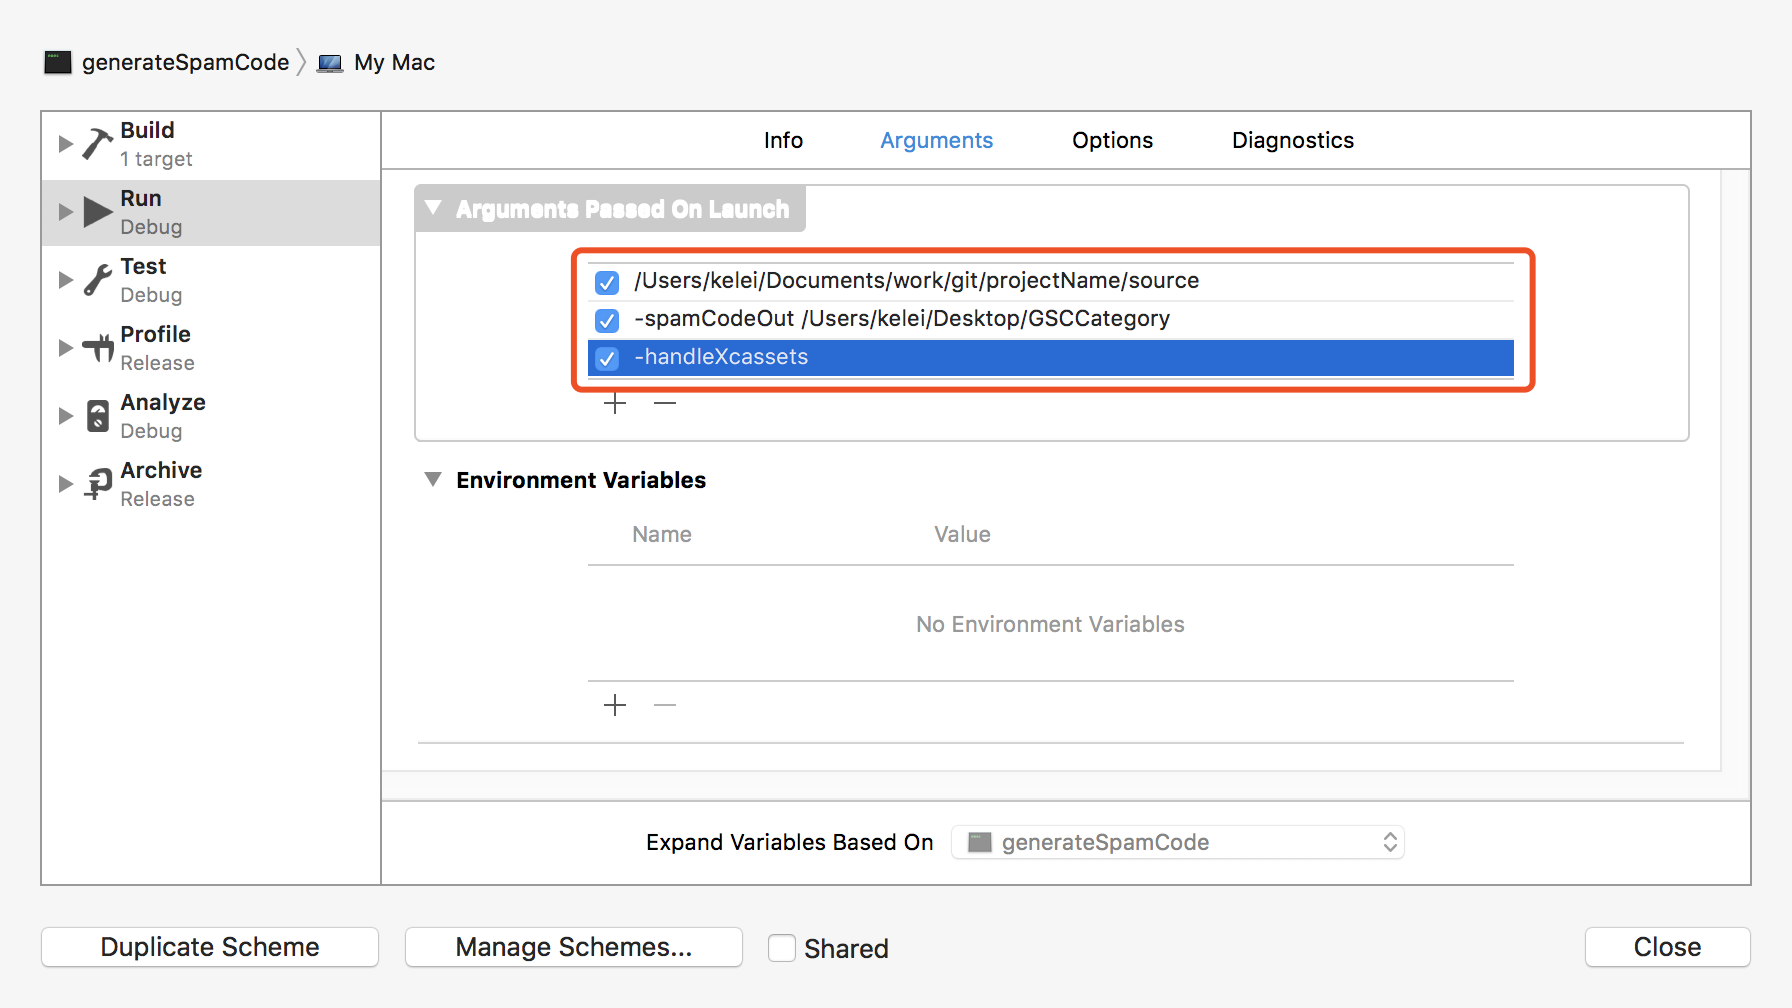
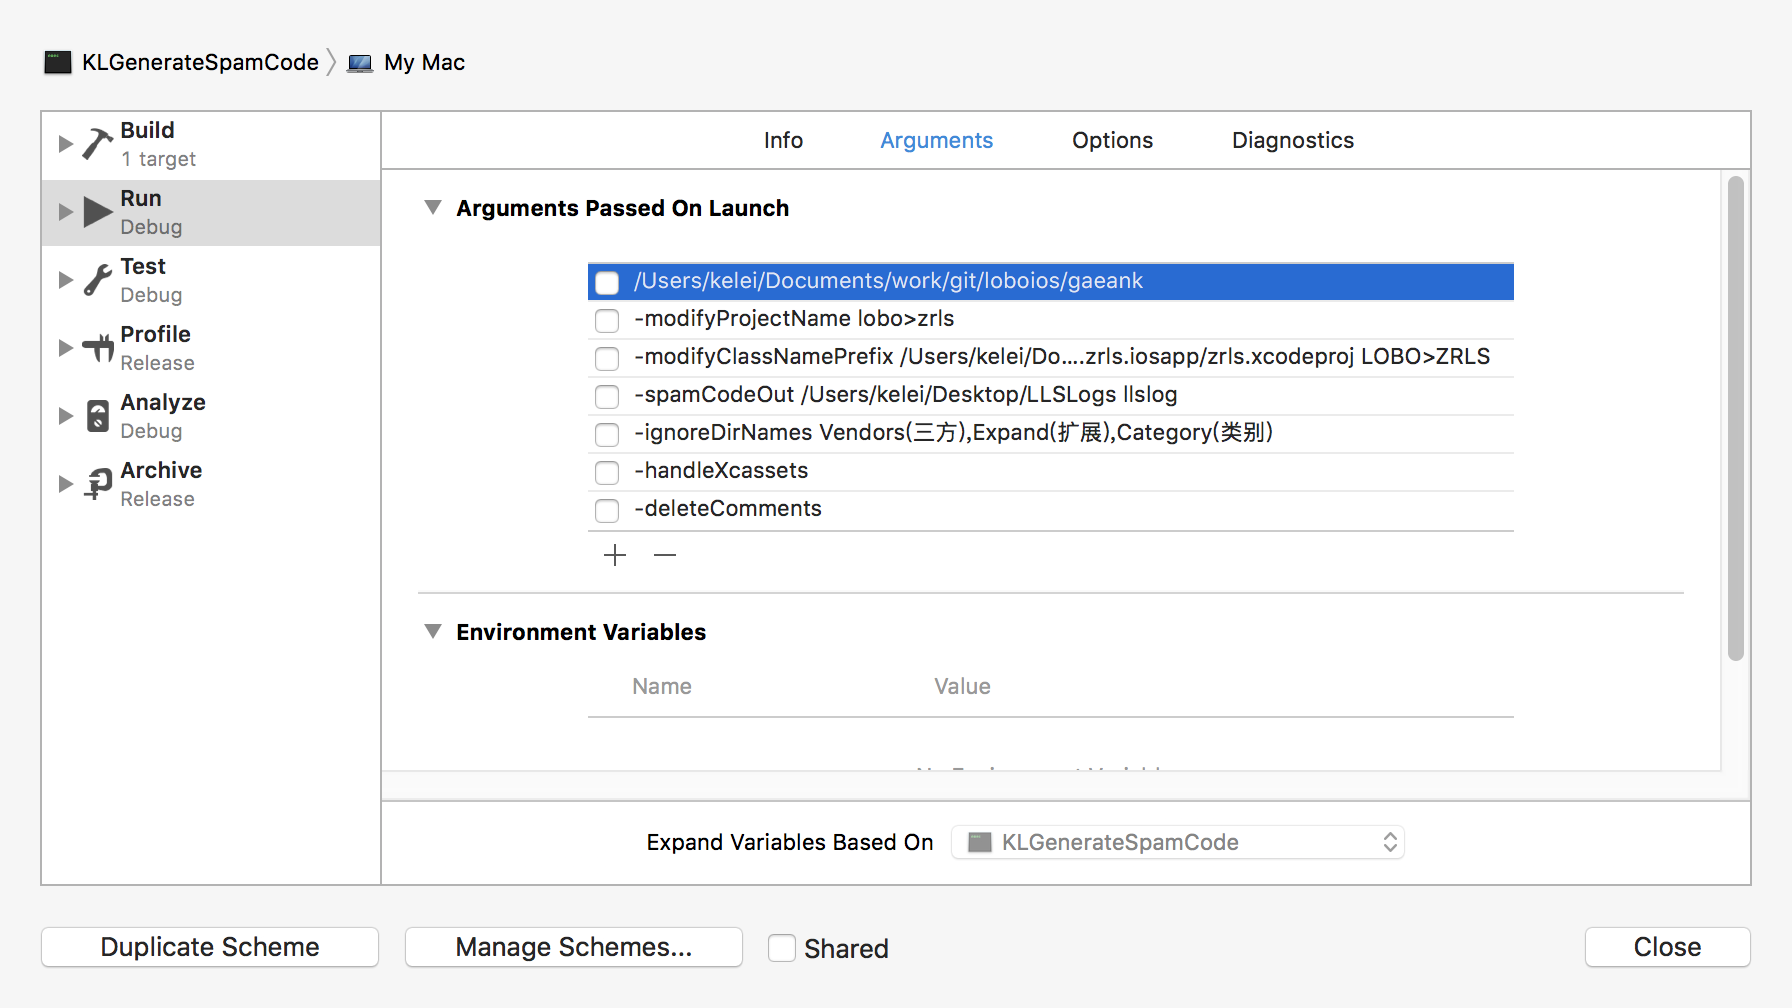
新版本

diff --git a/README.md b/README.md
@@ -2,27 +2,46 @@
 本工具用于应对苹果对重复应用的审核（Guideline 4.3 Design Spam），避免苹果机审检测概率。
 
 ## 主要功能
-1. 扫描工程中的代码，生成同等数量的 Category 文件，文件中及是同等方法数量的垃圾代码，垃圾代码方法名随机。
+1. 修改工程名
+1. 修改类名前缀
+1. 扫描工程中的代码，生成同等数量的 Category 文件，文件中及是同等方法数量的垃圾代码。
 1. 修改 xxx.xcassets 文件夹中的 png 资源文件名。
 1. 删除代码中的所有注释和空行。
 
 ## 使用
+### 使用源码
 1. 下载源码。
-1. 用 Xcode 打开工程并配置参数。如图![配置参数](https://github.com/klaus01/KLGenerateSpamCode/raw/master/images/p1.png)
-1. 运行，生成垃圾代码，处理 png 文件名。
-1. 将生成的垃圾代码拖入工程中。
+1. 用 Xcode 打开工程并配置参数。如图![配置参数](https://github.com/klaus01/KLGenerateSpamCode/raw/master/images/p1.png)
+1. 运行
+
+### 使用二进制文件，在终端中执行 GenerateSpamCode
+`$ ./GenerateSpamCode \
+/Users/kelei/Documents/work/git/projectName/source \
+-deleteComments`
+其它参数等等
 
 ### 参数说明
-- **工程源文件目录**（如：`/Users/kelei/Documents/work/git/projectName/source`）
-- **-spamCodeOut** 后面跟垃圾代码输出目录（如：`-spamCodeOut /Users/kelei/Desktop/GSCCategory`）
+- **工程源代码绝对路径**（如：`/Users/kelei/Documents/work/git/projectName/source`）
+- **-modifyProjectName [原名称]>[新名称]** 修改工程名。程序会修改`工程源代码绝对路径`名称，`原名称.xcodeproj`和`原名称.xcworkspace`的名称和内容。
+- **-modifyClassNamePrefix [工程文件 xcodeproj 绝对路径] [原前缀]>[新前缀]** 修改源代码类名前缀。程序会扫描`工程源代码绝对路径`下的 .h .swift 文件，修改文件名，修改使用该类名的代码，修改`工程文件`中的文件名。文件名有`原前缀`的会修改成`新前缀`，如：`原前缀ViewController`变成`新前缀ViewController`；没有`原前缀`的会增加`新前缀`，如：`ViewController`变成`新前缀ViewController`。
+- **-spamCodeOut [垃圾代码文件输出目录] [垃圾代码方法增加的参数名]** 生成垃圾代码。程序会扫描`工程源代码绝对路径`下的 .m .swift 文件中的类和方法，并生成`category`和`extension`文件，文件中的方法是在代码原方法的基础上增加`垃圾代码方法增加的参数名`参数。如：`-spamCodeOut /dir AppLog`，`- (void)setupKeys {}`>`- (void)setupKeysAppLog:(NSString *)appLog {}`，`- (void)foo:(NSString *)str {}`>`- (void)foo:(NSString *)str appLog:(NSString *)appLog {}`
+- **-ignoreDirNames [忽略文件夹名称字符串]** 忽略这些文件夹，对`-modifyClassNamePrefix`和`-spamCodeOut`参数有效。目前只会忽略`工程源代码绝对路径`下一级的这些目录。如：`/p/s -ignoreDirNames categorys`，那么`/p/s/categorys`会被忽略，但`/p/s/viewControllers/categorys`不会忽略。
 - **-handleXcassets** 修改`xxx.xcassets`文件夹中的 png 资源文件名，同时也`Contents.json`文件中的关联名称，不会影响代码中使用图片。
-- **-deleteComments** 删除工程目录下 .h .m 文件中的注释和空行。
-
-## 已知问题
-- 生成的垃圾代码文件可能是 .m 文件中实现的私有类，编译垃圾代码可能会报错，删除该垃圾代码 .h .m 文件及可。
+- **-deleteComments** 删除工程目录下 .h .m .swift 文件中的注释和空行。
 
 ## 另外修改图片 hash 值的方法
 使用 [ImageMagick](http://www.imagemagick.org/) 对 png 图片做轻量压缩，及不损失图片质量，又可改变图片文件 hash 值。方法：
 1. 安装 ImageMagick，`brew install imagemagick`
 2. 压缩工程目录下所有 png 文件，`find . -iname "*.png" -exec echo {} \; -exec convert {} {} \;`
+
+## 使用经验
+就我 2017-11 月的提交情况来看，只需要做如下修改就可以上马甲包了。
+1. 修改工程名
+2. 修改类名前缀
+3. 修改图片文件 Hash 值
+4. 修改 .xcassets 中的图片文件名
+5. 用别的电脑打包
+
+## 已知问题
+- 生成的垃圾代码文件可能是 .m 文件中实现的私有类，编译垃圾代码可能会报错，删除该垃圾代码 .h .m 文件及可。
 
